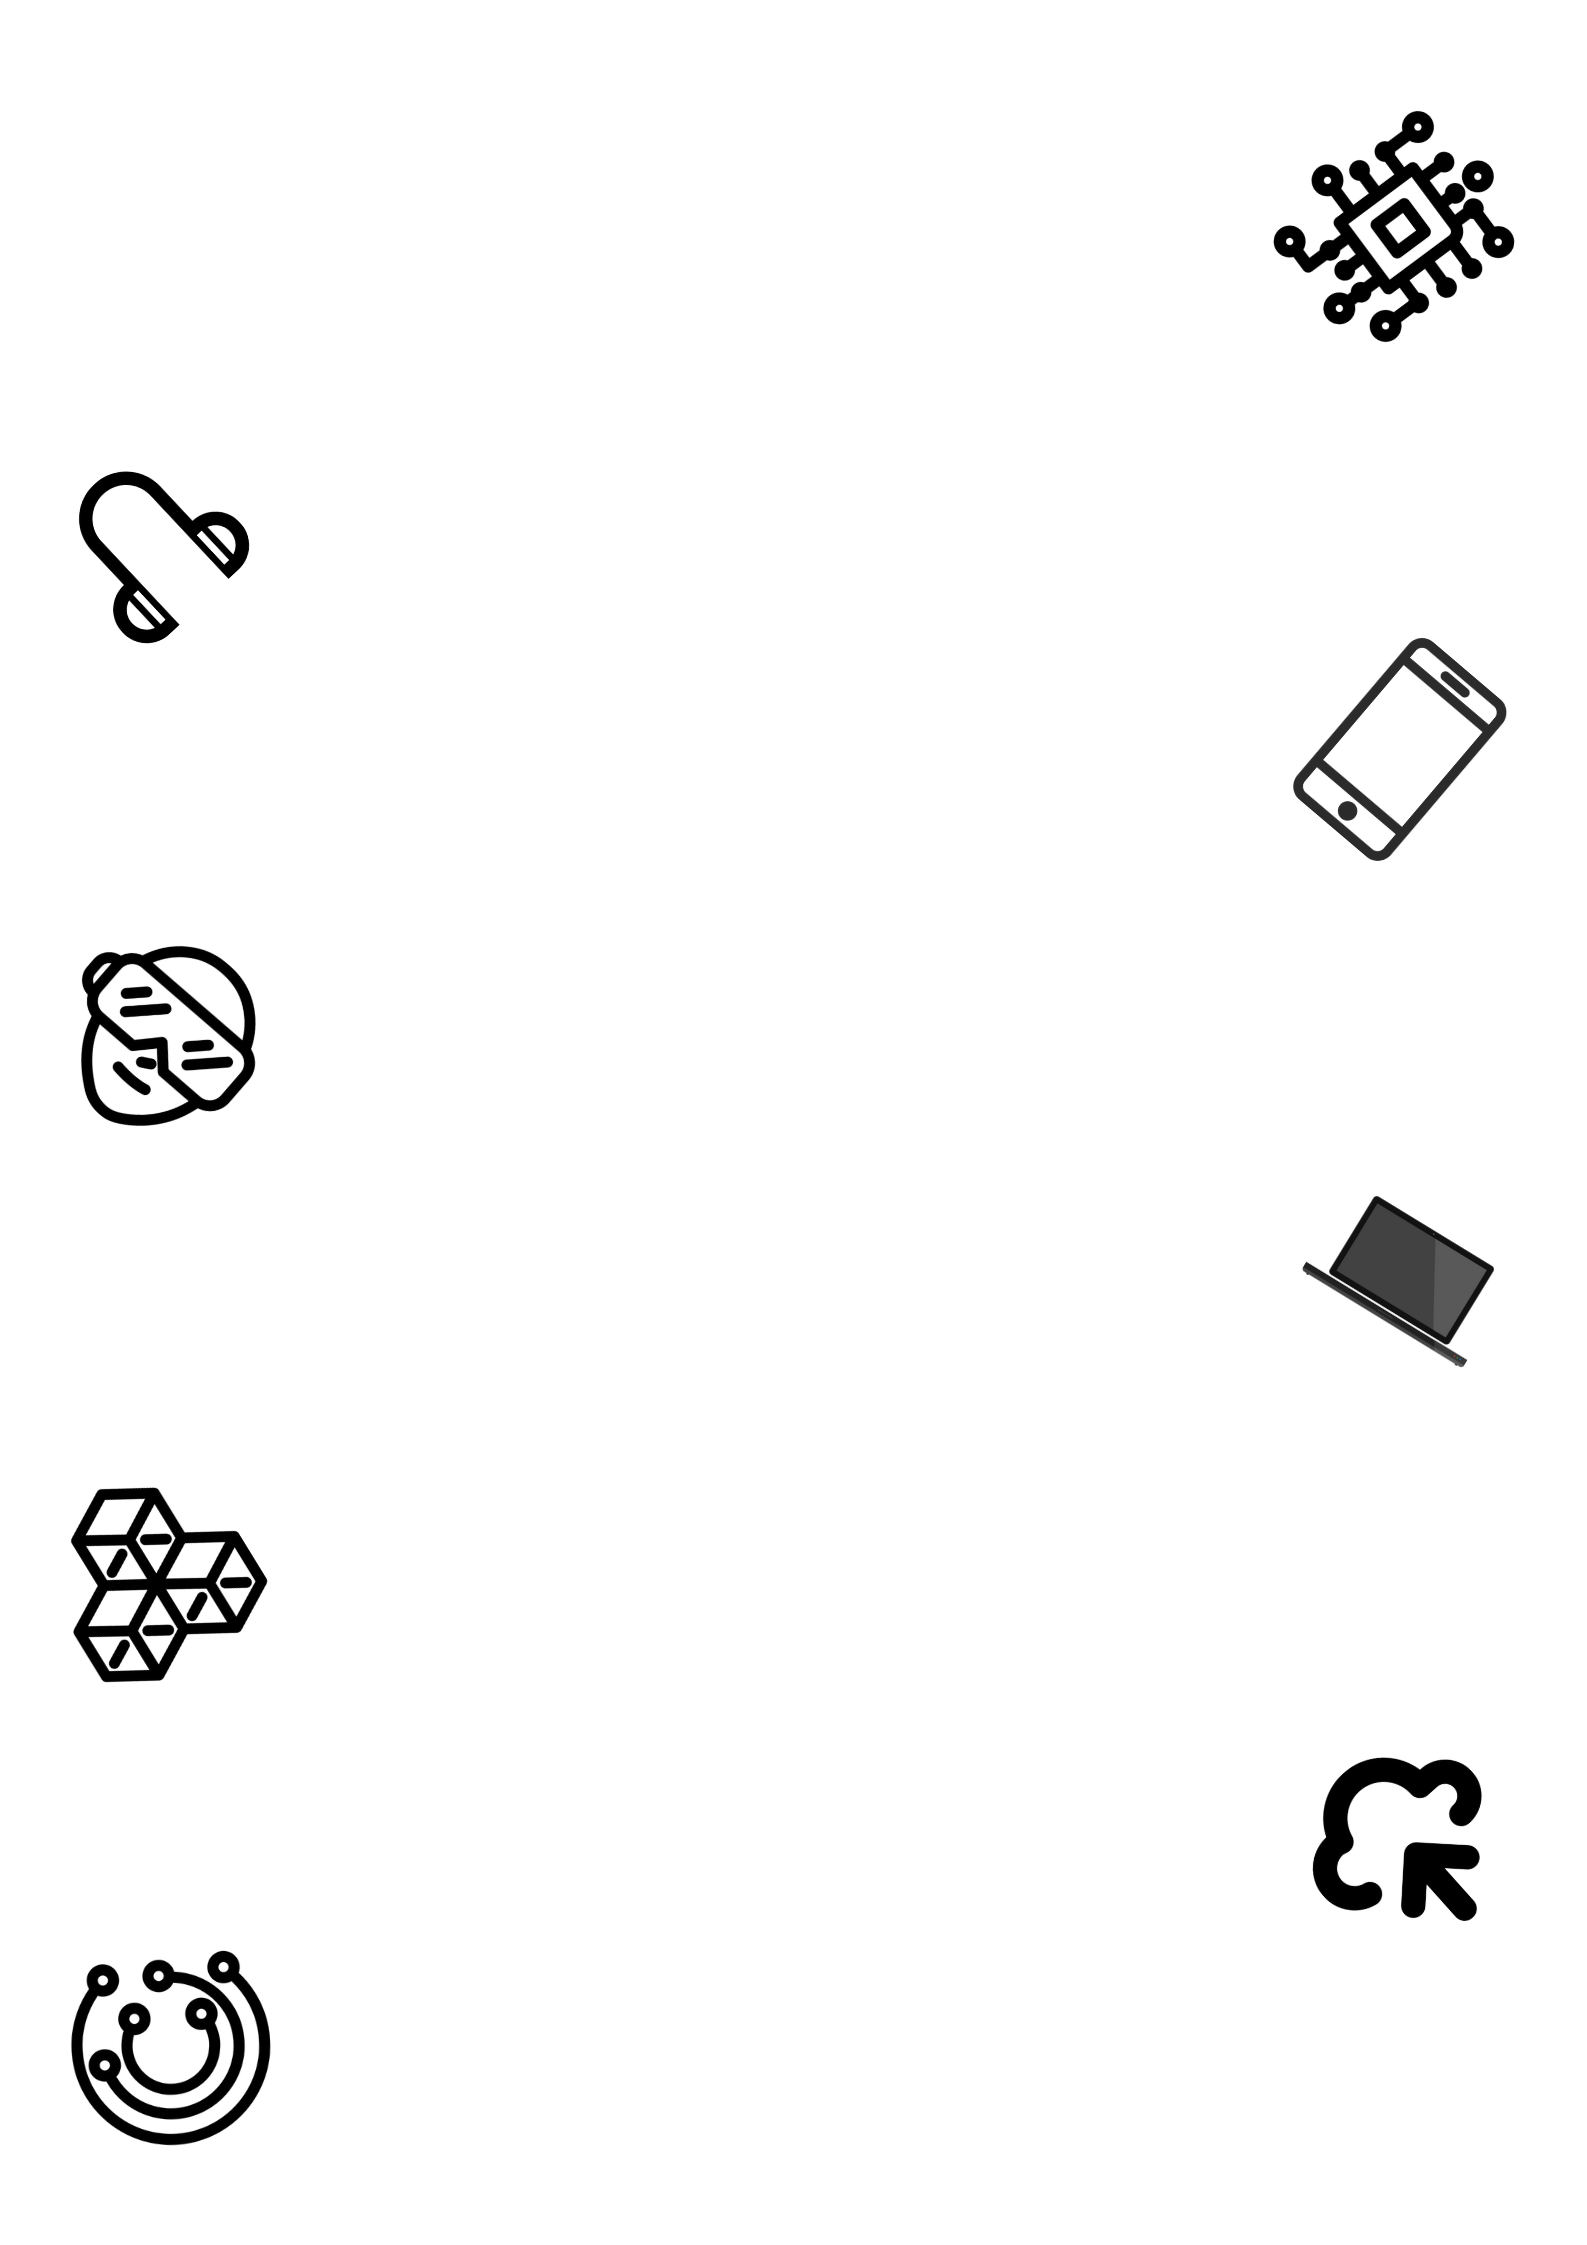
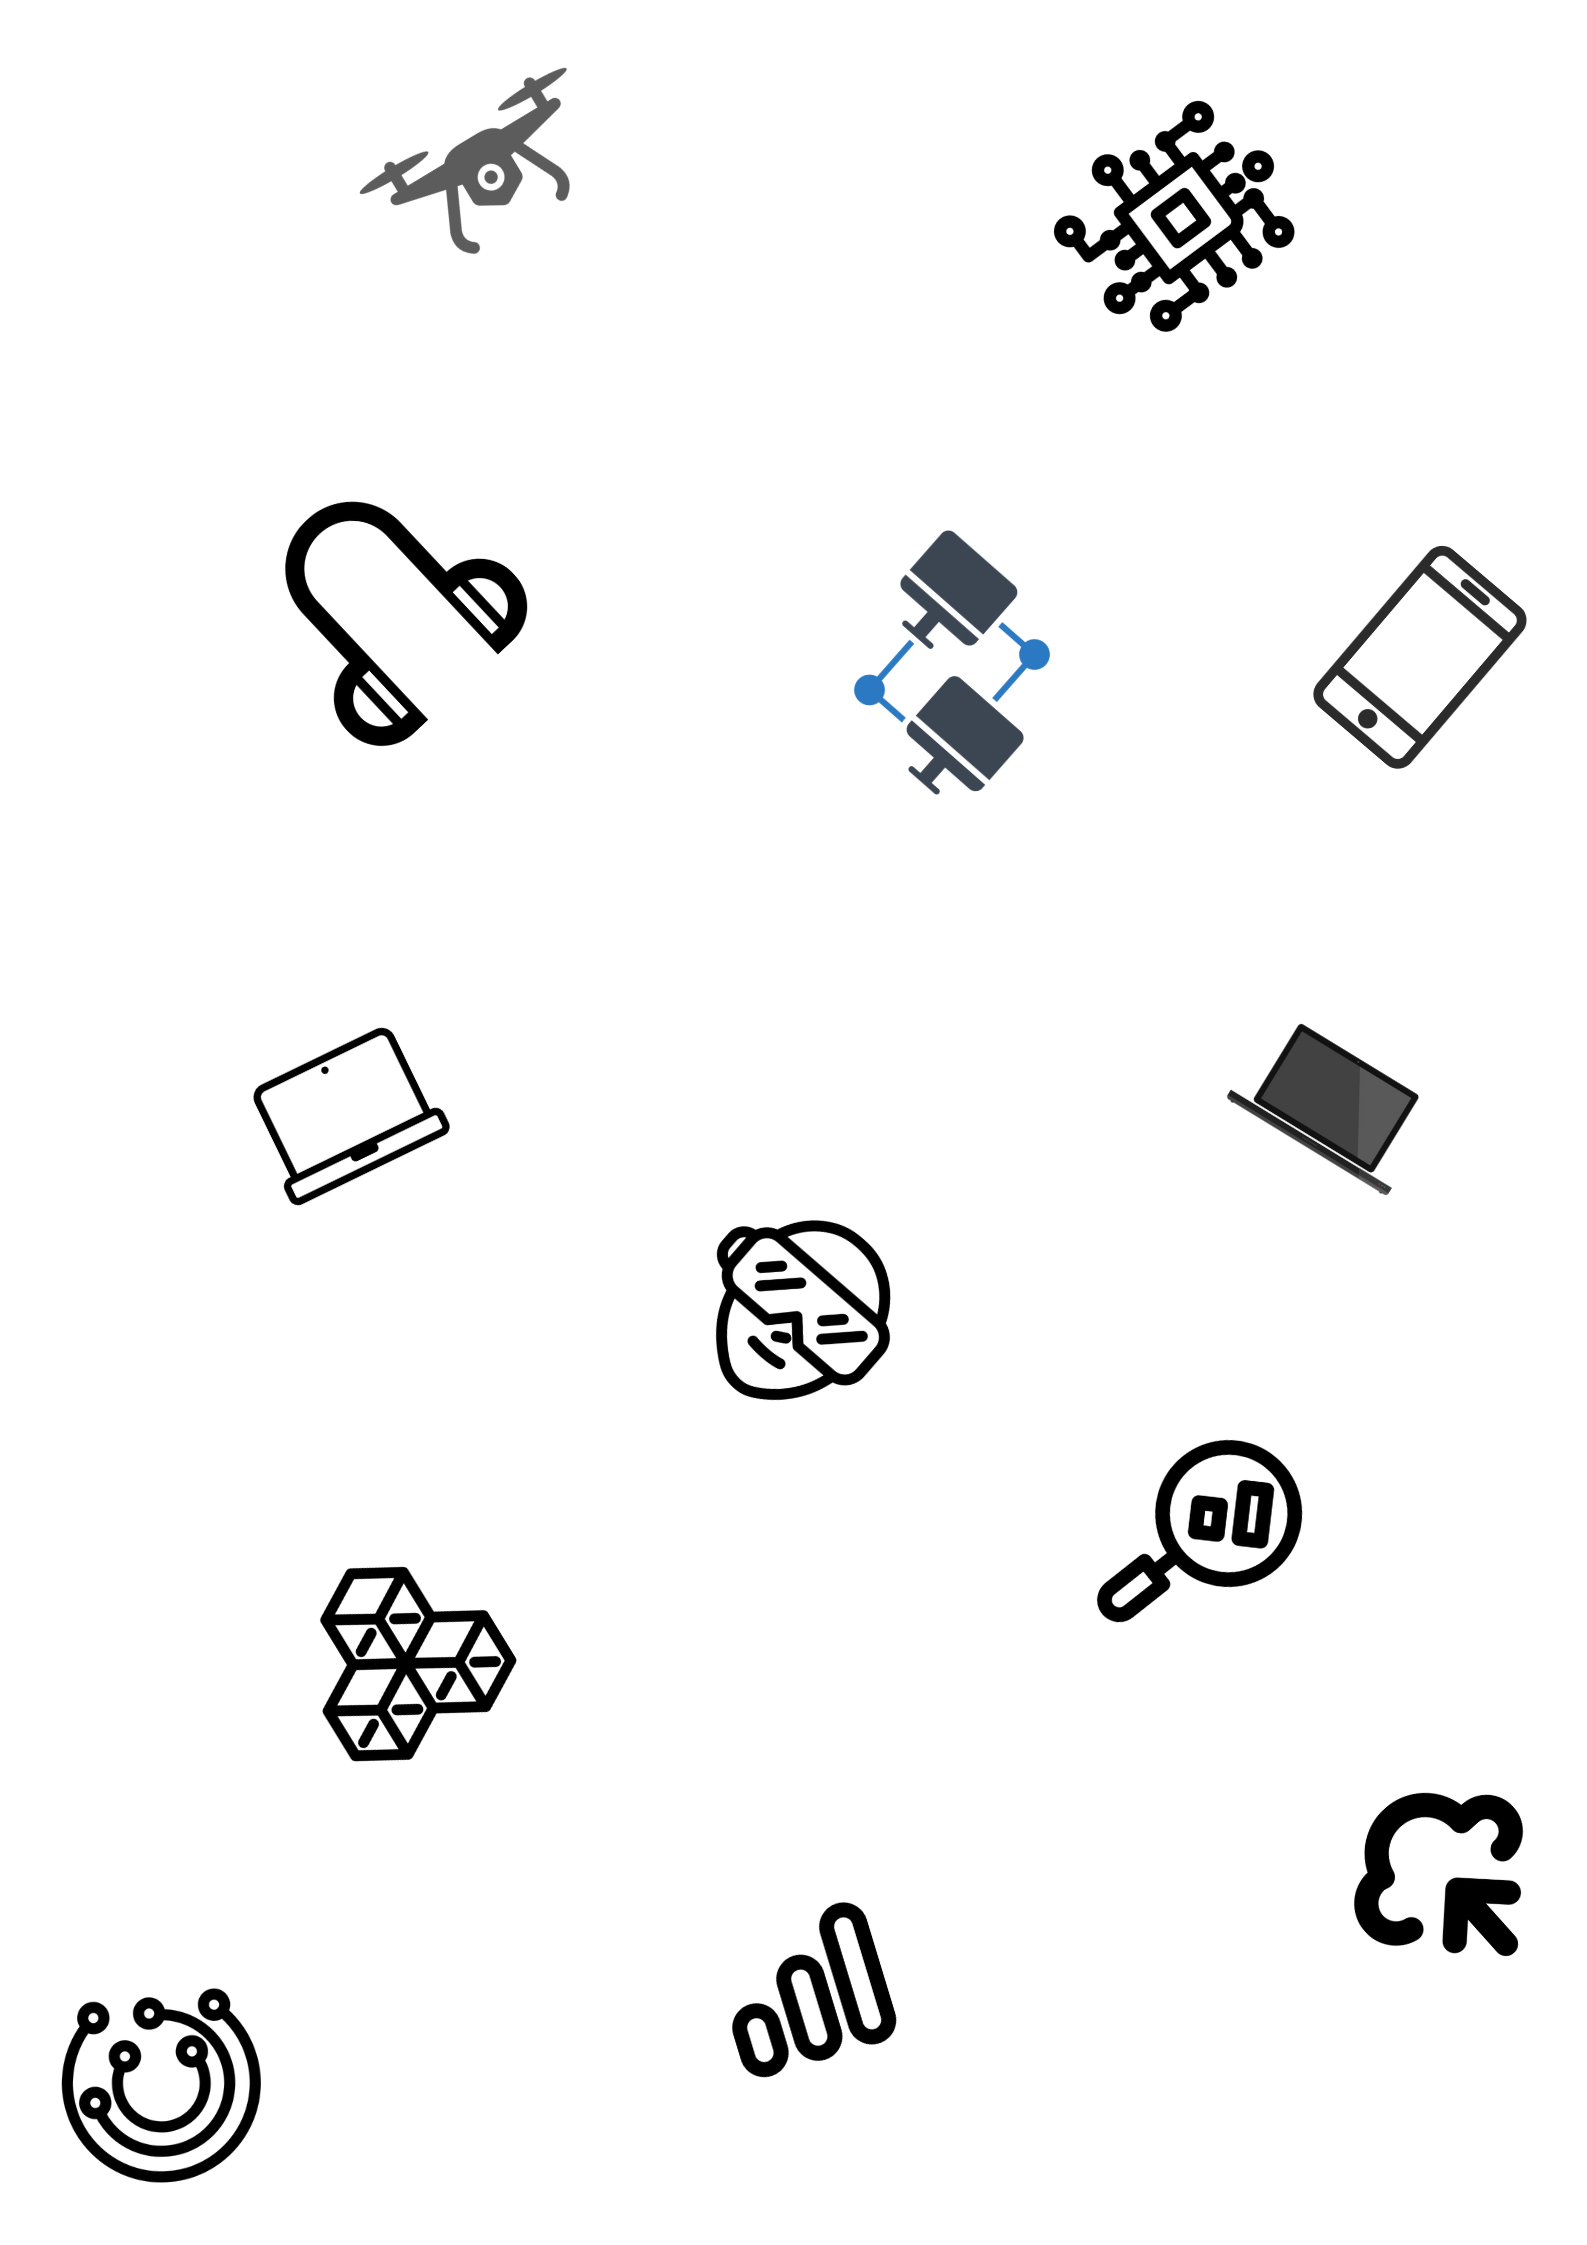
background_update

diff --git a/main.dart.js b/main.dart.js
@@ -33620,7 +33620,7 @@ M(a){return A.abc(A.abj(A.c5(A.a([new A.qV(null)],t.E),B.a6,B.p),new A.aB(150,0,
 A.zA.prototype={
 M(a2){var s,r=null,q="Samsung Smartphone Series",p="SirinStencil",o="assets/images/samsung_logo.png",n="Founded By : ",m="Lee Byung-chul",l="Founded On : ",k="1st of March 1984",j="Founded At : ",i="Daegu, Japanese Korea",h="                   Samsung is a world famous brand for Electronic gadgets. This eminent Electronics brand belongs to the country South Korea. It offers a wide variety of product range pertaining a wide variety of price range too.",g="                   If we consider the smartphone range of this eminent brand Samsung, it offers a wide range of smartphones consisting of low-range smartphones moving forward we get to see the mid range smartphones which follows the high range smartphones.",f="                   Samsung Electronics offers smartphones with a massive battery life. It also provides a powerful processor that helps make smartphones operate smoothly providing fluent performance experience. It also provides IP rating feature for some of its smartphone series which protects the device from water damage.",e="Samsung offers a wide variety of smartphone range. This range is divided into mainly five Smartphone series.",d="1. Samsung Galaxy Z Series",c="2. Samsung Galaxy S Series",b="3. Samsung Galaxy A Series",a="4. Samsung Galaxy M Series",a0="5. Samsung Galaxy F Series",a1=t.w
 if(a2.N(a1).f.a.a<=500){s=t.E
-s=A.c5(A.a([A.hC(A.a([A.br(r,A.J(q,A.G(r,r,B.j,r,r,r,r,r,p,r,r,a2.N(a1).f.a.a<=500?30:60,r,r,B.c4,r,r,!0,r,r,r,r,r,r,r,r),r,r),r,r,r,r,new A.aB(20,0,0,0),r)],s),B.p,B.ak),A.c5(A.a([A.F(r,30,r),A.pU(new A.cO(new A.aB(30,30,30,30),A.c5(A.a([A.ja(A.br(r,A.a71(new A.cK(o)),r,r,r,r,r,r),r,r),A.F(r,20,r),A.hC(A.a([A.J(n,A.G(r,r,r,r,r,r,r,r,r,r,r,18,r,r,r,r,r,!0,r,r,r,r,r,r,r,r),r,r),A.F(r,r,10),A.J(m,A.G(r,r,r,r,r,r,r,r,r,r,r,18,r,r,r,r,r,!0,r,r,r,r,r,r,r,r),r,r)],s),B.p,B.ak),A.F(r,20,r),A.hC(A.a([A.J(l,A.G(r,r,r,r,r,r,r,r,r,r,r,18,r,r,r,r,r,!0,r,r,r,r,r,r,r,r),r,r),A.F(r,r,15),A.J(k,A.G(r,r,r,r,r,r,r,r,r,r,r,18,r,r,r,r,r,!0,r,r,r,r,r,r,r,r),r,r)],s),B.p,B.ak),A.F(r,20,r),A.hC(A.a([A.J(j,A.G(r,r,r,r,r,r,r,r,r,r,r,18,r,r,r,r,r,!0,r,r,r,r,r,r,r,r),r,r),A.F(r,r,15),A.J(i,A.G(r,r,r,r,r,r,r,r,r,r,r,18,r,r,r,r,r,!0,r,r,r,r,r,r,r,r),r,r)],s),B.p,B.ak)],s),B.a6,B.p),r),r,B.qY),A.br(r,A.c5(A.a([A.F(r,30,r),A.J(h,A.G(r,r,r,r,r,r,r,r,r,r,r,18,r,r,r,r,r,!0,r,r,r,r,r,r,r,r),r,r),A.F(r,25,r),A.J(g,A.G(r,r,r,r,r,r,r,r,r,r,r,18,r,r,r,r,r,!0,r,r,r,r,r,r,r,r),r,r),A.F(r,25,r),A.J(f,A.G(r,r,r,r,r,r,r,r,r,r,r,18,r,r,r,r,r,!0,r,r,r,r,r,r,r,r),r,r),A.F(r,25,r),A.J(e,A.G(r,r,r,r,r,r,r,r,r,r,r,18,r,r,r,r,r,!0,r,r,r,r,r,r,r,r),r,r),A.F(r,30,r),A.J(d,A.G(r,r,r,r,r,r,r,r,r,r,r,18,r,r,r,r,r,!0,r,r,r,r,r,r,r,r),r,r),A.F(r,15,r),A.J(c,A.G(r,r,r,r,r,r,r,r,r,r,r,18,r,r,r,r,r,!0,r,r,r,r,r,r,r,r),r,r),A.F(r,15,r),A.J(b,A.G(r,r,r,r,r,r,r,r,r,r,r,18,r,r,r,r,r,!0,r,r,r,r,r,r,r,r),r,r),A.F(r,15,r),A.J(a,A.G(r,r,r,r,r,r,r,r,r,r,r,18,r,r,r,r,r,!0,r,r,r,r,r,r,r,r),r,r),A.F(r,15,r),A.J(a0,A.G(r,r,r,r,r,r,r,r,r,r,r,18,r,r,r,r,r,!0,r,r,r,r,r,r,r,r),r,r),A.F(r,25,r)],s),B.a2,B.p),r,r,r,r,r,400)],s),B.a6,B.p)],s),B.a6,B.p)
+s=A.c5(A.a([A.hC(A.a([A.br(r,A.J(q,A.G(r,r,r,r,r,r,r,r,p,r,r,a2.N(a1).f.a.a<=500?30:60,r,r,B.c4,r,r,!0,r,r,r,r,r,r,r,r),r,r),r,r,r,r,new A.aB(20,0,0,0),r)],s),B.p,B.ak),A.c5(A.a([A.F(r,30,r),A.pU(new A.cO(new A.aB(30,30,30,30),A.c5(A.a([A.ja(A.br(r,A.a71(new A.cK(o)),r,r,r,r,r,r),r,r),A.F(r,20,r),A.hC(A.a([A.J(n,A.G(r,r,r,r,r,r,r,r,r,r,r,18,r,r,r,r,r,!0,r,r,r,r,r,r,r,r),r,r),A.F(r,r,10),A.J(m,A.G(r,r,r,r,r,r,r,r,r,r,r,18,r,r,r,r,r,!0,r,r,r,r,r,r,r,r),r,r)],s),B.p,B.ak),A.F(r,20,r),A.hC(A.a([A.J(l,A.G(r,r,r,r,r,r,r,r,r,r,r,18,r,r,r,r,r,!0,r,r,r,r,r,r,r,r),r,r),A.F(r,r,15),A.J(k,A.G(r,r,r,r,r,r,r,r,r,r,r,18,r,r,r,r,r,!0,r,r,r,r,r,r,r,r),r,r)],s),B.p,B.ak),A.F(r,20,r),A.hC(A.a([A.J(j,A.G(r,r,r,r,r,r,r,r,r,r,r,18,r,r,r,r,r,!0,r,r,r,r,r,r,r,r),r,r),A.F(r,r,15),A.J(i,A.G(r,r,r,r,r,r,r,r,r,r,r,18,r,r,r,r,r,!0,r,r,r,r,r,r,r,r),r,r)],s),B.p,B.ak)],s),B.a6,B.p),r),r,B.qY),A.br(r,A.c5(A.a([A.F(r,30,r),A.J(h,A.G(r,r,r,r,r,r,r,r,r,r,r,18,r,r,r,r,r,!0,r,r,r,r,r,r,r,r),r,r),A.F(r,25,r),A.J(g,A.G(r,r,r,r,r,r,r,r,r,r,r,18,r,r,r,r,r,!0,r,r,r,r,r,r,r,r),r,r),A.F(r,25,r),A.J(f,A.G(r,r,r,r,r,r,r,r,r,r,r,18,r,r,r,r,r,!0,r,r,r,r,r,r,r,r),r,r),A.F(r,25,r),A.J(e,A.G(r,r,r,r,r,r,r,r,r,r,r,18,r,r,r,r,r,!0,r,r,r,r,r,r,r,r),r,r),A.F(r,30,r),A.J(d,A.G(r,r,r,r,r,r,r,r,r,r,r,18,r,r,r,r,r,!0,r,r,r,r,r,r,r,r),r,r),A.F(r,15,r),A.J(c,A.G(r,r,r,r,r,r,r,r,r,r,r,18,r,r,r,r,r,!0,r,r,r,r,r,r,r,r),r,r),A.F(r,15,r),A.J(b,A.G(r,r,r,r,r,r,r,r,r,r,r,18,r,r,r,r,r,!0,r,r,r,r,r,r,r,r),r,r),A.F(r,15,r),A.J(a,A.G(r,r,r,r,r,r,r,r,r,r,r,18,r,r,r,r,r,!0,r,r,r,r,r,r,r,r),r,r),A.F(r,15,r),A.J(a0,A.G(r,r,r,r,r,r,r,r,r,r,r,18,r,r,r,r,r,!0,r,r,r,r,r,r,r,r),r,r),A.F(r,25,r)],s),B.a2,B.p),r,r,r,r,r,400)],s),B.a6,B.p)],s),B.a6,B.p)
 a1=s}else{s=t.E
 s=A.c5(A.a([A.hC(A.a([A.br(r,A.J(q,A.G(r,r,r,r,r,r,r,r,p,r,r,a2.N(a1).f.a.a<=500?30:40,r,r,B.c4,r,r,!0,r,r,r,r,r,r,r,r),r,r),r,r,r,r,new A.aB(20,0,0,0),r)],s),B.p,B.ak),A.hC(A.a([A.aa0(A.c5(A.a([A.br(r,A.c5(A.a([A.F(r,30,r),A.J(h,A.G(r,r,r,r,r,r,r,r,r,r,r,18,r,r,r,r,r,!0,r,r,r,r,r,r,r,r),r,r),A.F(r,25,r),A.J(g,A.G(r,r,r,r,r,r,r,r,r,r,r,18,r,r,r,r,r,!0,r,r,r,r,r,r,r,r),r,r),A.F(r,25,r),A.J(f,A.G(r,r,r,r,r,r,r,r,r,r,r,18,r,r,r,r,r,!0,r,r,r,r,r,r,r,r),r,r),A.F(r,25,r),A.J(e,A.G(r,r,r,r,r,r,r,r,r,r,r,18,r,r,r,r,r,!0,r,r,r,r,r,r,r,r),r,r),A.F(r,30,r),A.J(d,A.G(r,r,r,r,r,r,r,r,r,r,r,18,r,r,r,r,r,!0,r,r,r,r,r,r,r,r),r,r),A.F(r,15,r),A.J(c,A.G(r,r,r,r,r,r,r,r,r,r,r,18,r,r,r,r,r,!0,r,r,r,r,r,r,r,r),r,r),A.F(r,15,r),A.J(b,A.G(r,r,r,r,r,r,r,r,r,r,r,18,r,r,r,r,r,!0,r,r,r,r,r,r,r,r),r,r),A.F(r,15,r),A.J(a,A.G(r,r,r,r,r,r,r,r,r,r,r,18,r,r,r,r,r,!0,r,r,r,r,r,r,r,r),r,r),A.F(r,15,r),A.J(a0,A.G(r,r,r,r,r,r,r,r,r,r,r,18,r,r,r,r,r,!0,r,r,r,r,r,r,r,r),r,r),A.F(r,25,r)],s),B.a2,B.p),r,r,r,r,r,r)],s),B.a6,B.p),3),A.F(r,r,50),A.aa0(A.pU(new A.cO(new A.aB(30,30,30,30),A.c5(A.a([A.ja(A.br(r,A.a71(new A.cK(o)),r,r,r,r,r,r),r,r),A.F(r,20,r),A.hC(A.a([A.J(n,A.G(r,r,r,r,r,r,r,r,r,r,r,18,r,r,r,r,r,!0,r,r,r,r,r,r,r,r),r,r),A.F(r,r,10),A.J(m,A.G(r,r,r,r,r,r,r,r,r,r,r,18,r,r,r,r,r,!0,r,r,r,r,r,r,r,r),r,r)],s),B.p,B.ak),A.F(r,20,r),A.hC(A.a([A.J(l,A.G(r,r,r,r,r,r,r,r,r,r,r,18,r,r,r,r,r,!0,r,r,r,r,r,r,r,r),r,r),A.F(r,r,15),A.J(k,A.G(r,r,r,r,r,r,r,r,r,r,r,18,r,r,r,r,r,!0,r,r,r,r,r,r,r,r),r,r)],s),B.p,B.ak),A.F(r,20,r),A.hC(A.a([A.J(j,A.G(r,r,r,r,r,r,r,r,r,r,r,18,r,r,r,r,r,!0,r,r,r,r,r,r,r,r),r,r),A.F(r,r,15),A.J(i,A.G(r,r,r,r,r,r,r,r,r,r,r,18,r,r,r,r,r,!0,r,r,r,r,r,r,r,r),r,r)],s),B.p,B.ak)],s),B.a6,B.p),r),r,B.qY),2)],s),B.p,B.ak)],s),B.a6,B.p)
 a1=s}return a1}}
@@ -33678,7 +33678,7 @@ A.Rl.prototype={
 $1(a){return new A.mn(null)},
 $S:269}
 A.rN.prototype={
-M(a){var s=null,r=A.a9K(B.ks,new A.cK("assets/images/background.png"),0.1),q=a.N(t.w).f.a.a<=500?new A.aB(10,0,10,0):new A.aB(150,0,150,0)
+M(a){var s=null,r=A.a9K(B.ks,new A.cK("assets/images/background.png"),0.2),q=a.N(t.w).f.a.a<=500?new A.aB(10,0,10,0):new A.aB(150,0,150,0)
 return A.abc(A.br(s,A.abj(new A.cO(q,A.c5(A.a([new A.qV(s),A.F(s,20,s),new A.zA(s),new A.AN(s),A.F(s,25,s),new A.AM(s),A.F(s,25,s),new A.AK(s),A.F(s,25,s),new A.AL(s)],t.fQ),B.a6,B.p),s),s),s,new A.h_(s,r,s,s,s,s,B.bj),s,s,s,s))}}
 A.h9.prototype={
 h(a){return"DotPosition."+this.b}}

diff --git a/flutter_service_worker.js b/flutter_service_worker.js
@@ -5,7 +5,7 @@ const CACHE_NAME = 'flutter-app-cache';
 const RESOURCES = {
   "assets/AssetManifest.json": "1d201bf2af486594ebdaa4408be2b50d",
 "assets/assets/icon/icon.png": "b9f0c9ee0479bb1c6a1224487e91c71e",
-"assets/assets/images/background.png": "5618ba35fc2b7c678a8370f7dfed1890",
+"assets/assets/images/background.png": "70fb7a5b748302438e8a0f1a0be17333",
 "assets/assets/images/logo.png": "b1615165a78b4484c4332f43d7ff71cb",
 "assets/assets/images/samsung_galaxy_a/samsung_galaxy_a52.png": "11c284df4605f222181ccedf77aa1b15",
 "assets/assets/images/samsung_galaxy_a/samsung_galaxy_a_1.png": "2bc93b166f68b95618719c93c3061a45",
@@ -38,9 +38,9 @@ const RESOURCES = {
 "icons/Icon-512.png": "96e752610906ba2a93c65f8abe1645f1",
 "icons/Icon-maskable-192.png": "c457ef57daa1d16f64b27b786ec2ea3c",
 "icons/Icon-maskable-512.png": "301a7604d45b3e739efc881eb04896ea",
-"index.html": "ba9790883e82df9107779d962cf5f8ca",
-"/": "ba9790883e82df9107779d962cf5f8ca",
-"main.dart.js": "5c9f7f1510e9f7edc2b4448496c0aa5b",
+"index.html": "84b247f4829c5aaeae52daa3ec484182",
+"/": "84b247f4829c5aaeae52daa3ec484182",
+"main.dart.js": "4c382b955c6b8778dd265c17745fa03e",
 "manifest.json": "4a1718f63f2cd22efce7209858b93f3e",
 "version.json": "f566d0092354d9dbb7e808b3587b2ff0"
 };

diff --git a/index.html b/index.html
@@ -34,7 +34,7 @@
 
   <script>
     // The value below is injected by flutter build, do not touch.
-    var serviceWorkerVersion = '4028243645';
+    var serviceWorkerVersion = '971495909';
   </script>
   <!-- This script adds the flutter initialization JS code -->
   <script src="flutter.js" defer></script>
